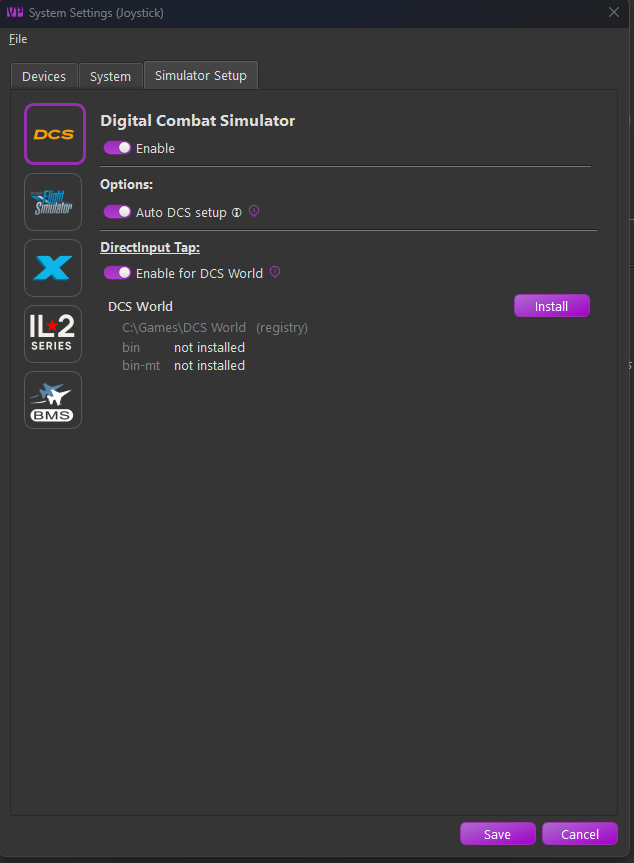
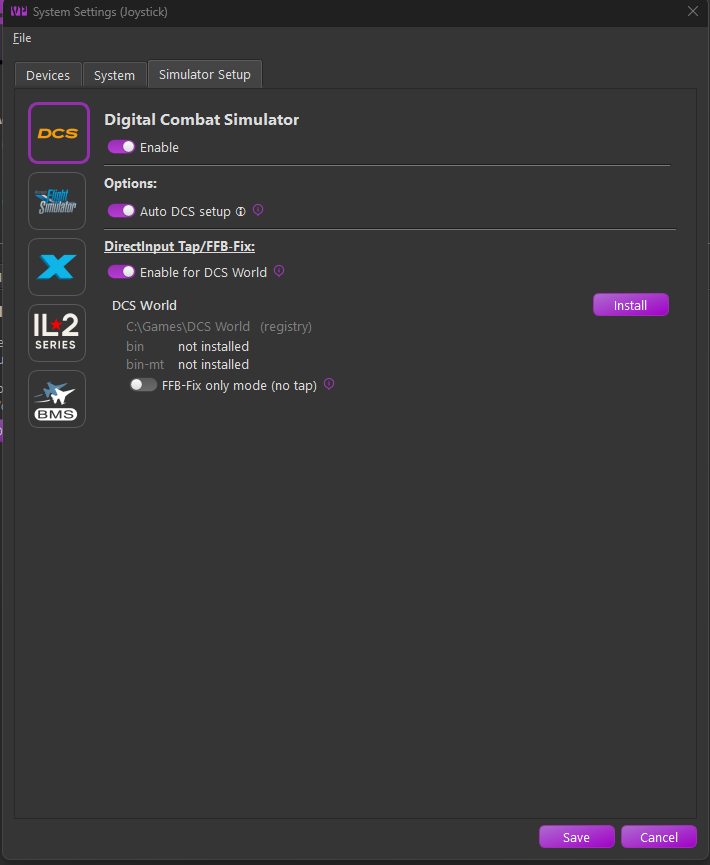
docs(telemffb): FFB-Fix only mode, and refresh the DCS tap panel shots
The panel screenshots showed the pre-FFB-Fix UI, inside a numbered
walkthrough - so a DCS reader on step 2 saw a toggle in their own window
that the picture did not have, immediately before step 3 told them to
press Install, which is the control that toggle governs.  Both panel
shots are retaken, and step 2 notes in one line that the extra toggle is
DCS only, rather than reshooting the generic procedure from a simulator
that has fewer controls than most readers will.

New section covers the mode itself: why it exists (DCS gives force
feedback to the devices it enumerates first, and Windows caches that
order), what it installs, what it costs - no per-effect gains, no spring
correction, nothing in the effects monitor - and how to move between
modes afterwards, which is Configure Devices rather than the toggle.

Two corrections that follow the code rather than the feature:

- The tap spring mode warning now names FFB-Fix only as a second reason
  the tap might not be capturing.  It is the likeliest support question
  this mode creates.
- Reinstall is documented as greying out against a copy already at the
  shipped version.

diff --git a/docs/telemffb/dinput-tap.md b/docs/telemffb/dinput-tap.md
@@ -41,6 +41,8 @@ TelemFFB places a small wrapper library (`dinput8.dll`) in the game's folder, an
 
     ![](images/dinput-tap/tap-section-fresh.png){ width="650px" }
 
+    The screenshots on this page are from DCS, whose section is labelled **DirectInput Tap/FFB-Fix** and carries one control the others do not: the **FFB-Fix only mode (no tap)** toggle, described under [FFB-Fix only mode](#ffb-fix-only-mode-dcs). Leave it off for the tap.
+
 3. Click **Install**.
 4. Choose which devices the tap captures in the device dialog that opens.
 
@@ -61,6 +63,8 @@ Some game folders already carry a `dinput8.dll` wrapper. TelemFFB recognizes the
 
 TelemFFB's wrapper is a **superset** of the original ffb-fix wrapper: every rule in the existing `dinput8.ini` (per-device `block`, `allow`, and scaling rules, `[DeviceOrder]`) keeps working exactly as before, so the upgrade is safe. The file is kept as it is, with two exceptions: TelemFFB adds a `tap` rule for the joystick device selected in TelemFFB, and offers `block` rules for any configured pedal or collective devices the file does not already cover. Rules you already wrote are recognized, not duplicated - a name rule that already blocks your pedals is left alone.
 
+After a confirmed upgrade, the device configuration opens by itself with the proposed additions pre-selected - the same dialog and **Preview** as [Configure Devices](#fresh-install-or-existing-configuration) - and nothing is added to the file until you confirm it there. Cancelling leaves the file exactly as it was.
+
 A `dinput8.dll` that TelemFFB cannot identify is reported as "another dinput8.dll installed", and Install asks the more careful question. If the DLL belongs to a different mod or utility, replacing it will stop that tool from working.
 
 ![](images/dinput-tap/another-dll.png){ width="620px" }
@@ -70,11 +74,52 @@ A `dinput8.dll` that TelemFFB cannot identify is reported as "another dinput8.dl
 Which path Install takes depends on whether the game's folders already hold a `dinput8.ini`:
 
 - On a **fresh install** (no configuration anywhere), the device dialog opens automatically as part of Install, as in the steps above.
-- Where a configuration **already exists** (an earlier install, or a file you wrote yourself), Install and Reinstall lay down only the wrapper and leave the file alone. To choose or change the captured devices, use **Configure Devices...** on the panel.
+- Where a configuration **already exists** (an earlier install, or a file you wrote yourself), Install and Reinstall lay down only the wrapper and leave the file alone. To choose or change the captured devices, use **Configure Devices...** on the panel. The one exception is a recognized ffb-fix upgrade, which opens the device configuration for you as described above.
 
 **Configure Devices...** opens the same device dialog over the existing configuration. **Preview** shows the proposed changes as a side-by-side diff of each folder's `dinput8.ini` before anything is written; **OK** applies them immediately. Only the lines you were asked about change; every rule and comment you wrote yourself is kept.
 
 ![](images/dinput-tap/diff-preview.png){ width="650px" }
+
+## FFB-Fix only mode (DCS)
+
+DCS hands force feedback to the devices it enumerates **first**, and Windows caches that order. A vJoy device or a set of FFB pedals reported ahead of your stick can take the effects the stick should have received - the game creates them on the wrong device, and your stick stays quiet. This is the problem the community **dcs-force-feedback-fix** wrapper was written to solve, and TelemFFB's wrapper is built from it.
+
+The tap solves it as a side effect, because captured effects are routed by device rather than by enumeration order. **FFB-Fix only mode** offers the other half on its own: the wrapper blocks the devices DCS should not drive and puts your joystick first, and then stays out of the way. DCS drives the stick directly, exactly as it would with no wrapper present at all.
+
+Choose it if you want your stick's force feedback fixed while leaving the game's forces entirely to the game.
+
+![](images/dinput-tap/dcs-ffb-fix.png){ width="620px" }
+
+Only DCS offers this. IL-2 and Falcon BMS identify devices by their configured position rather than by enumeration order, so there is nothing for the fix to do there and no toggle appears.
+
+### What you give up
+
+FFB-Fix only mode installs no capture rules, so everything the tap makes possible is unavailable:
+
+- No per-effect enable toggles or gain sliders for the game's effects.
+- No axis corrections for the game's spring, and no live force readout.
+- The game's effects do not appear in the effects monitor.
+- **Joystick Spring Mode** must stay on a TelemFFB mode or **None (Game Managed)**. **Game Managed (DirectInput Tap)** needs a tap that is capturing the device, and in this mode nothing is captured.
+
+TelemFFB's own telemetry-driven effects are unaffected and continue to work.
+
+### Choosing and changing the mode
+
+Set the toggle **before** installing: it decides which configuration **Install** writes.
+
+Afterwards the toggle still moves, but flipping it changes nothing on its own - it states an intent, and the panel says what is actually installed underneath it: *installed as: DirectInput Tap - use Configure Devices to change it*. Switching is a rewrite of the configuration, so **Configure Devices...** is where it happens.
+
+![](images/dinput-tap/tap-to-fix-switch.png){ width="620px" }
+
+In FFB-Fix only mode the dialog offers no capture rules at all. Instead it proposes exactly what the fix needs, each already ticked:
+
+- **Make the game detect this joystick before any other device** - the `[DeviceOrder]` entry that puts your stick first.
+- **Remove the tap rule** for any device still carrying one. Removing them is the reason to be in this mode; untick one to keep it.
+- **Block** the pedals and collective, so the game stops counting them as force-feedback devices at all.
+
+Moving the other way, back to the tap, the dialog offers capture rules as usual.
+
+What the panel reports is read back from `dinput8.ini` itself, not from the toggle. A file you hand-edited, or one left behind by an earlier choice, is described as it actually is.
 
 ## Rendering the game's spring
 
@@ -114,7 +159,7 @@ Captured effects appear in the effects monitor as **Game Spring (DirectInput Tap
 TelemFFB reports tap misconfigurations on the error line of the effects area while you fly, with the cause and the fix:
 
 - Spring mode is **None (Game Managed)** while the tap is capturing the device. The tap prevents the game's spring from reaching the device, so this combination leaves no spring at all. Select the tap spring mode, or remove the device from the capture list.
-- The tap spring mode is selected but the tap is not capturing, usually because you started the game before TelemFFB.
+- The tap spring mode is selected but the tap is not capturing, usually because you started the game before TelemFFB - or, on DCS, because the wrapper is installed in [FFB-Fix only mode](#ffb-fix-only-mode-dcs), which captures nothing by design.
 
 The System Settings dialog also warns at configuration time when a selected device needs a tap rule that no enabled simulator provides.
 
@@ -129,7 +174,7 @@ TelemFFB writes a `dinput8.ini` configuration beside the wrapper in each game fo
 
 TelemFFB ships the wrapper and knows which version each game folder holds:
 
-- The status panel marks an outdated copy with "→ v*X* available"; **Reinstall** updates it in place, keeping the configuration.
+- The status panel marks an outdated copy with "→ v*X* available"; **Reinstall** updates it in place, keeping the configuration. It is available only when there is an update to apply - against a copy already at the shipped version it is greyed out, and the version reads "(current)".
 - At startup, TelemFFB offers to update every outdated wrapper across your simulators in a single prompt, each simulator deselectable.
 
     ![](images/dinput-tap/update-offer.png){ width="500px" }

diff --git a/docs/telemffb/sim-dcs.md b/docs/telemffb/sim-dcs.md
@@ -146,7 +146,7 @@ Several different spring modes are available. Different options will be availabl
 
 - **Game Managed (DirectInput Tap)**
 
-    - The game's own spring, captured by the [DirectInput Tap](dinput-tap.md) and rendered by TelemFFB, with per-axis corrections and gain. Requires the tap to be installed and capturing the device.
+    - The game's own spring, captured by the [DirectInput Tap](dinput-tap.md) and rendered by TelemFFB, with per-axis corrections and gain. Requires the tap to be installed and capturing the device - not available if the wrapper is installed in [FFB-Fix only mode](dinput-tap.md#ffb-fix-only-mode-dcs), which captures nothing. Use **None (Game Managed)** there.
 
 - **Static Override w/ Hardware Trim**
 
